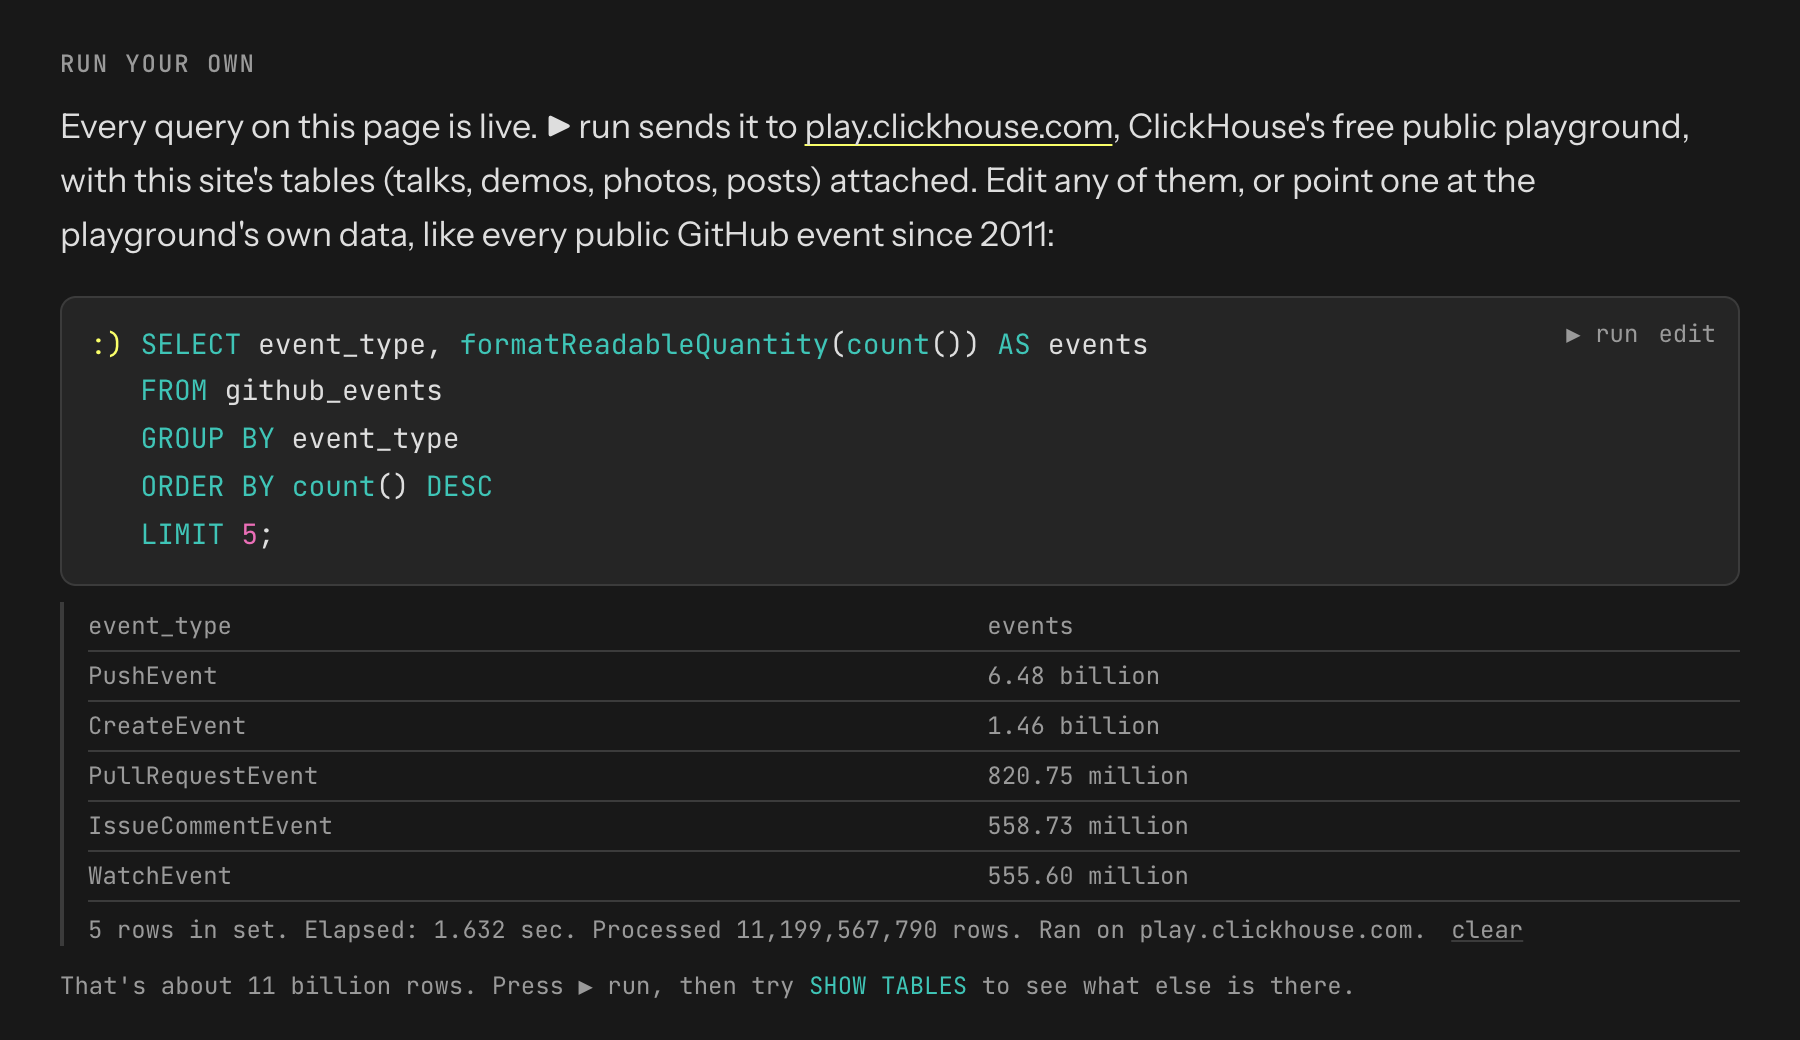
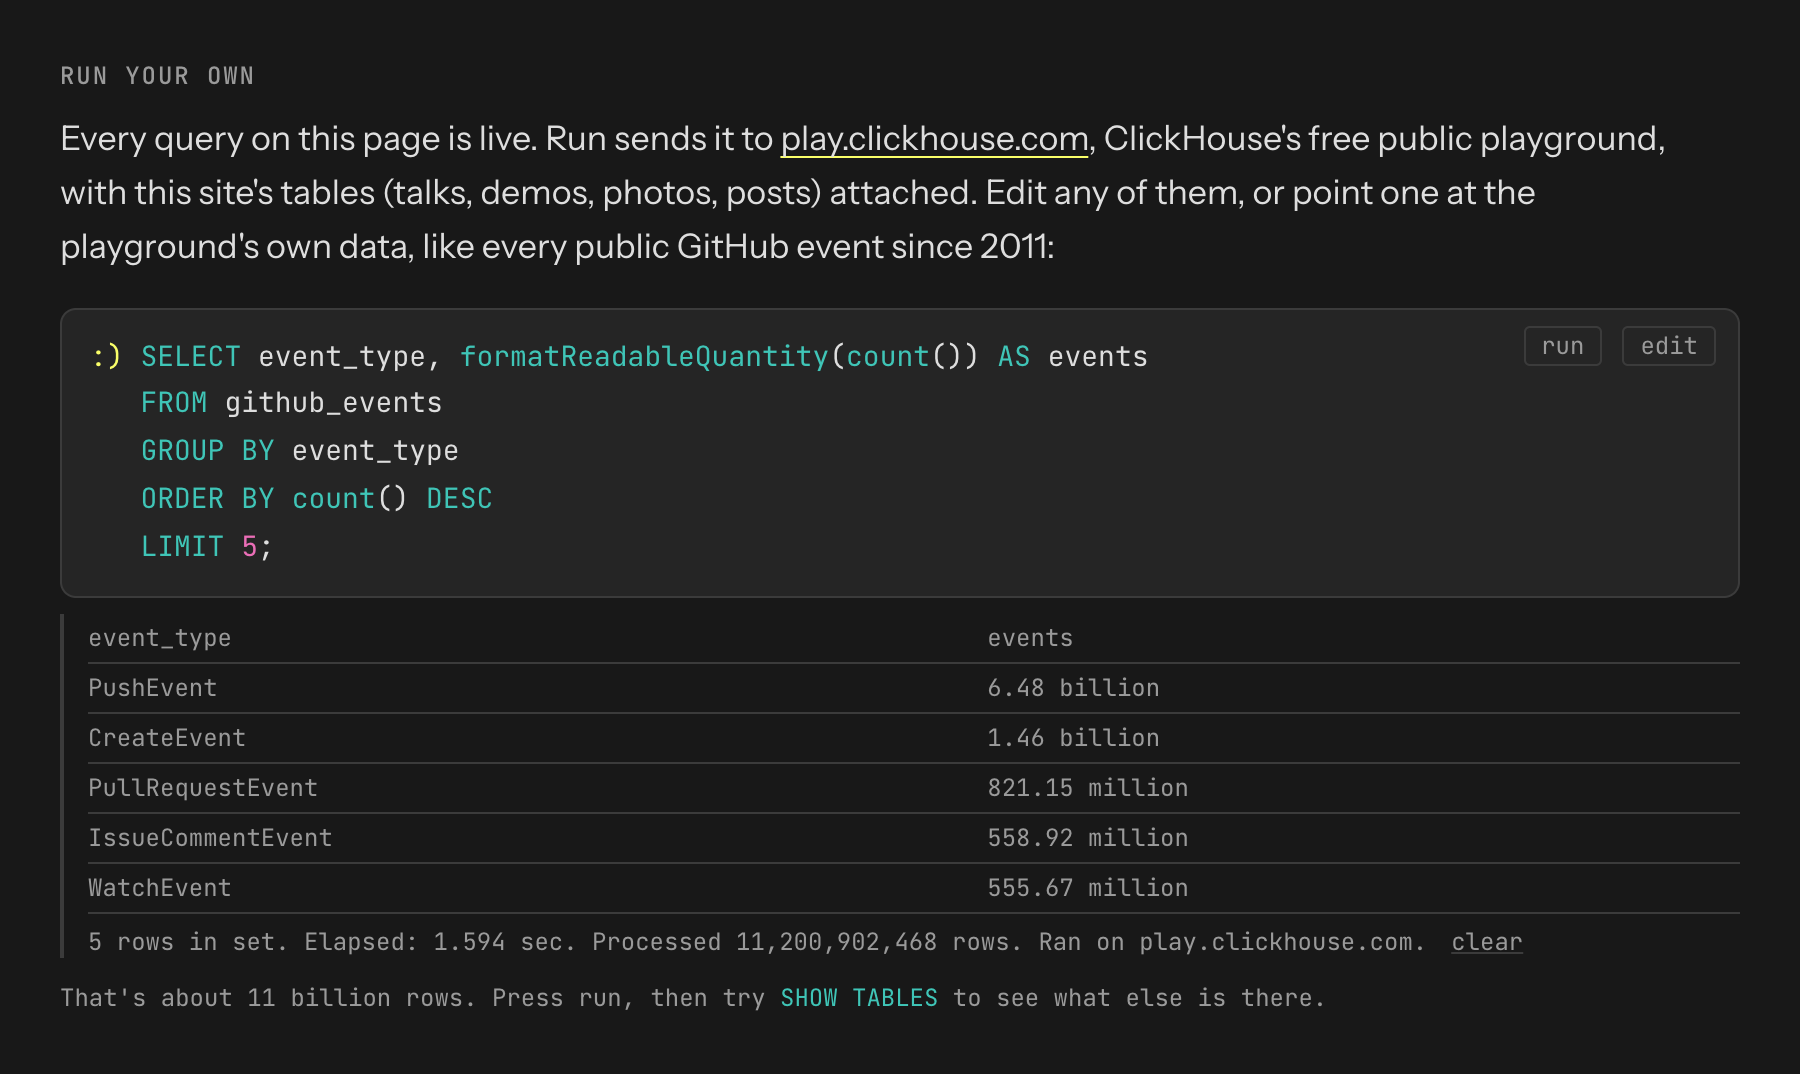
Run buttons: the word "run" in a small bordered button, no ▶
▶ also marks videos on the home page, so it meant two things. The run and
edit buttons now get a thin border (accent on hover), "■ cancel" becomes
"cancel", and the prose says "Press run". Screenshots for the play post
retaken with the new buttons.

diff --git a/public/run.js b/public/run.js
@@ -108,23 +108,23 @@
       'Elapsed: '+(st.elapsed!=null?st.elapsed:ms/1000).toFixed(3)+' sec.'+(st.rows_read!=null?' Processed '+st.rows_read.toLocaleString()+' rows.':'')+' Ran on play.clickhouse.com.</p>';
   }
 
-  // UI: a quiet "▶ run · edit" in the box's top-right corner (outside the box element, so pages that
+  // UI: small "run" and "edit" buttons in the box's top-right corner (outside the box element, so pages that
   // re-render the query text, like the talks filters, don't wipe it), and a compact result below.
   function setup(box){
     var wrap=document.createElement('div'); wrap.className='qwrap';
     box.before(wrap); wrap.appendChild(box);
     var bar=document.createElement('div'); bar.className='runbar';
-    bar.innerHTML='<button type="button" class="run" title="Run on play.clickhouse.com">▶ run</button><button type="button" class="edit">edit</button>';
+    bar.innerHTML='<button type="button" class="run" title="Run on play.clickhouse.com">run</button><button type="button" class="edit">edit</button>';
     wrap.appendChild(bar);
     var out=document.createElement('div'); out.className='result'; out.hidden=true;
     var status=document.createElement('span'); status.className='vh'; status.setAttribute('aria-live','polite');  // short announcements only
     wrap.after(out); out.after(status);
     var ta=null, runBtn=bar.querySelector('.run'), editBtn=bar.querySelector('.edit'), ctrl=null, runId=0;
-    function finish(){ ctrl=null; runBtn.textContent='▶ run'; runBtn.title='Run on play.clickhouse.com'; }
+    function finish(){ ctrl=null; runBtn.textContent='run'; runBtn.title='Run on play.clickhouse.com'; }
     function run(){
       if(ctrl){ ctrl.abort(); return; }  // the button doubles as "cancel" while a query runs
       var q=ta?ta.value:box.innerText, id=++runId, mine=new AbortController(); ctrl=mine;
-      runBtn.textContent='■ cancel'; runBtn.title='Stop this query';
+      runBtn.textContent='cancel'; runBtn.title='Stop this query';
       out.hidden=false; out.innerHTML='<p class="foot">Running on play.clickhouse.com…</p>'; status.textContent='Running query';
       var t0=performance.now();
       build(q).then(function(b){

diff --git a/public/index.html b/public/index.html
@@ -87,13 +87,13 @@
 
   <section id="play" aria-labelledby="play-h">
     <p class="label" id="play-h">Run your own</p>
-    <p class="bio" style="margin-top:0">Every query on this page is live. ▶ run sends it to <a href="https://play.clickhouse.com/">play.clickhouse.com</a>, ClickHouse's free public playground, with this site's tables (talks, demos, photos, posts) attached. Edit any of them, or point one at the playground's own data, like every public GitHub event since 2011:</p>
+    <p class="bio" style="margin-top:0">Every query on this page is live. Run sends it to <a href="https://play.clickhouse.com/">play.clickhouse.com</a>, ClickHouse's free public playground, with this site's tables (talks, demos, photos, posts) attached. Edit any of them, or point one at the playground's own data, like every public GitHub event since 2011:</p>
     <div class="query" data-run style="margin-top:16px"><span class="p">:) </span><span class="kw">SELECT</span> event_type, <span class="kw">formatReadableQuantity</span>(<span class="kw">count</span>()) <span class="kw">AS</span> events
    <span class="kw">FROM</span> github_events
    <span class="kw">GROUP BY</span> event_type
    <span class="kw">ORDER BY</span> <span class="kw">count</span>() <span class="kw">DESC</span>
    <span class="kw">LIMIT</span> <span class="n">5</span>;</div>
-    <p class="foot">That's about 11 billion rows. Press ▶ run, then try <span class="kw">SHOW TABLES</span> to see what else is there.</p>
+    <p class="foot">That's about 11 billion rows. Press run, then try <span class="kw">SHOW TABLES</span> to see what else is there.</p>
   </section>
 
 

diff --git a/public/style.css b/public/style.css
@@ -37,12 +37,12 @@ section{padding-top:48px}
 .query{font:14px/1.7 var(--mono);font-variant-ligatures:none;background:var(--panel);border:1px solid var(--line);border-radius:8px;padding:12px 14px;overflow-x:auto;white-space:pre}
 .query .p{color:var(--accent);user-select:none}
 .qwrap{position:relative}
-.qwrap>.query{padding-right:110px}
+.qwrap>.query{padding-right:130px}
 .runbar{position:absolute;top:9px;right:12px;display:flex;gap:10px;font:12px var(--mono);background:var(--panel);padding-left:10px}
-.runbar button{all:unset;cursor:pointer;color:var(--muted);padding:2px 0}
-.runbar button:hover,.runbar button:focus-visible{color:var(--accent)}
+.runbar button{all:unset;cursor:pointer;color:var(--muted);padding:1px 8px;border:1px solid var(--line);border-radius:3px}
+.runbar button:hover,.runbar button:focus-visible{color:var(--accent);border-color:var(--accent)}
 .runbar button:focus-visible{outline:2px solid var(--accent);outline-offset:2px;border-radius:2px}
-.runbar .run:disabled{cursor:progress;color:var(--accent)}
+.runbar .run:disabled{cursor:progress;color:var(--accent);border-color:var(--accent)}
 @media (max-width:600px){.qwrap{display:flex;flex-direction:column}.qwrap>.query{padding-right:14px}.runbar{position:static;order:-1;justify-content:flex-end;background:none;padding:0 2px 6px}}
 .result{margin-top:8px;border-left:2px solid var(--line);padding-left:12px}
 .result .tbl{border-top:0;max-height:300px;overflow:auto}

diff --git a/public/search/index.html b/public/search/index.html
@@ -48,7 +48,7 @@
     <ol class="how-list">
       <li>Ahead of time, ClickHouse's <code>aiEmbed</code> turned every page, talk, demo and photo caption into 384 numbers, using EmbeddingGemma running on my laptop.</li>
       <li>When you search, a Cloudflare Worker runs the same model on your words.</li>
-      <li>Your browser ranks the pages by how close their numbers are to yours. Press ▶ run and the same query runs on play.clickhouse.com instead.</li>
+      <li>Your browser ranks the pages by how close their numbers are to yours. Press run and the same query runs on play.clickhouse.com instead.</li>
     </ol>
   </section>
 

diff --git a/public/search.js b/public/search.js
@@ -63,7 +63,7 @@
 
   // A search box: o.form holds o.input, o.box is the runnable query showing the SQL, and the page draws the rows.
   // o.start(words) as a search begins, o.done(rows, words) with the ranked rows, o.fail(words) if it can't.
-  // ?q= in the URL searches on load; a new search makes any ▶ run result for the old one go away.
+  // ?q= in the URL searches on load; a new search makes any run result for the old one go away.
   // run(words, x) searches from code; x can replace o's start/search/done/fail for that one run.
   window.siteSearchBox=function(o){
     var n=0;
